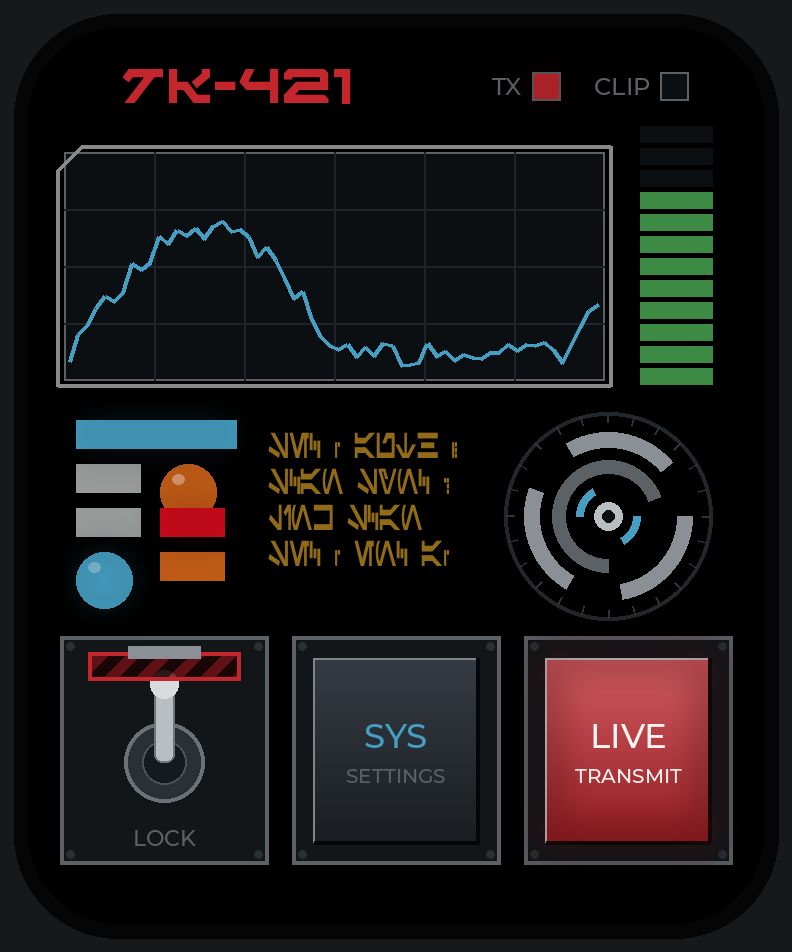
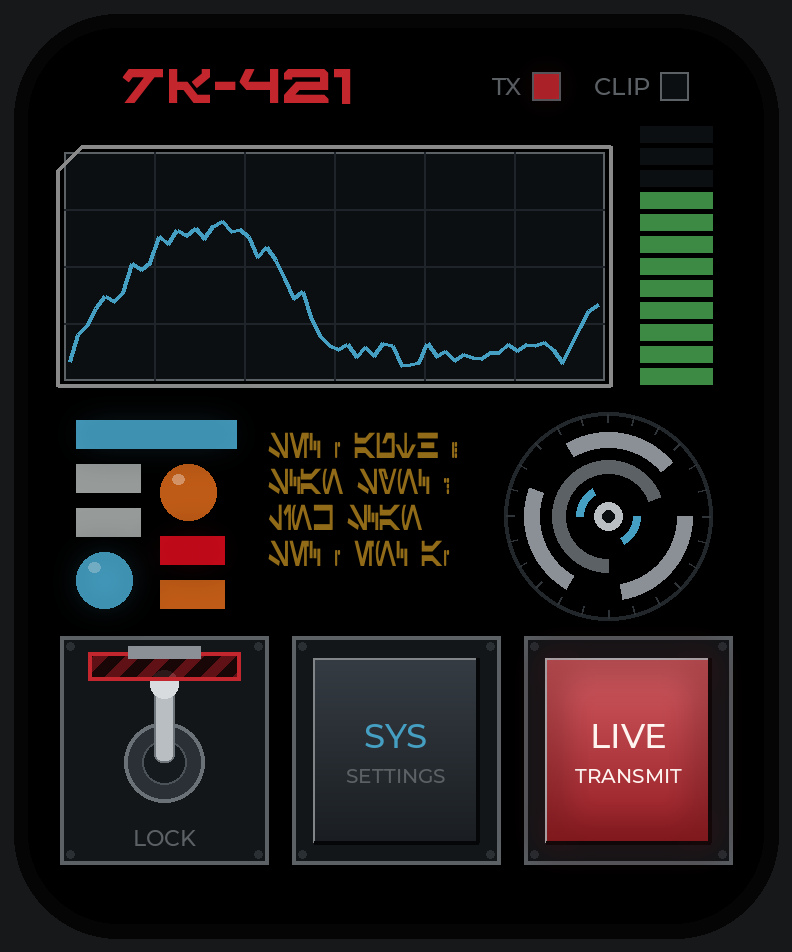
Lamp cluster: move right-hand bars clear of the dome
The two lower right bars overlapped the top-right dome lamp. Moved to
y 58 and y 80 in firmware3 ui.c and the mock-ups; rebuilt the sim.

Claude-Session: https://claude.ai/code/session_014PmTqdRFYRCH22NdKcRT7c

Changed region(s): [[0.1818, 0.5179, 0.303, 0.6397]]

diff --git a/firmware3/main/ui.c b/firmware3/main/ui.c
@@ -113,8 +113,8 @@ static void make_fake_cluster(lv_obj_t *parent, int x_base, int y_base)
     static const struct { int x, y, w, h; bool dome; } fl[FAKE_LIGHTS] = {
         {0,  0,  80, 14, false},
         {0,  22, 32, 14, false}, {42, 22, 28, 28, true},
-        {0,  44, 32, 14, false}, {42, 44, 32, 14, false},
-        {0,  66, 28, 28, true},  {42, 66, 32, 14, false},
+        {0,  44, 32, 14, false}, {42, 58, 32, 14, false},
+        {0,  66, 28, 28, true},  {42, 80, 32, 14, false},
     };
     for (int i = 0; i < FAKE_LIGHTS; i++) {
         lv_obj_t *f = lv_obj_create(parent);

diff --git a/design/mockups/make_mockups.py b/design/mockups/make_mockups.py
@@ -151,7 +151,7 @@ def guarded_toggle(sc, x, y, w, h, cover_open=False, label="LOCK"):
 
 
 LAMP_LAYOUT = [(0, 0, 80, 14, False), (0, 22, 32, 14, False), (42, 22, 28, 28, True),
-               (0, 44, 32, 14, False), (42, 44, 32, 14, False), (0, 66, 28, 28, True), (42, 66, 32, 14, False)]
+               (0, 44, 32, 14, False), (42, 58, 32, 14, False), (0, 66, 28, 28, True), (42, 80, 32, 14, False)]
 
 
 def lamps(sc, x, y, states, opas=None):
